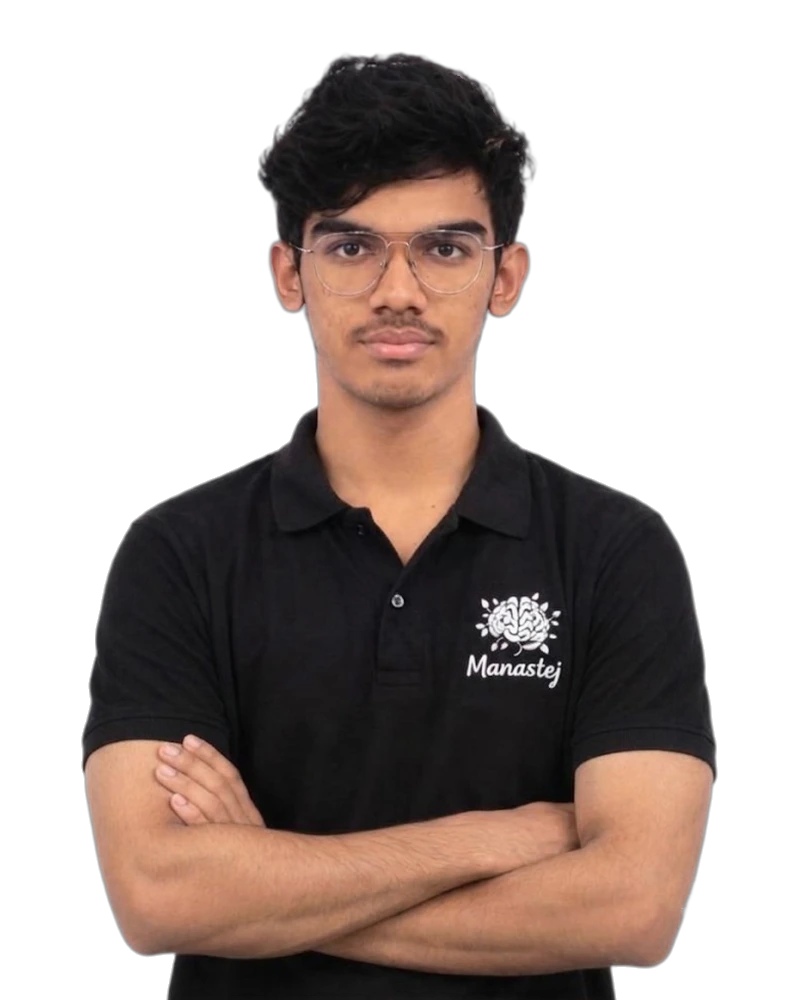
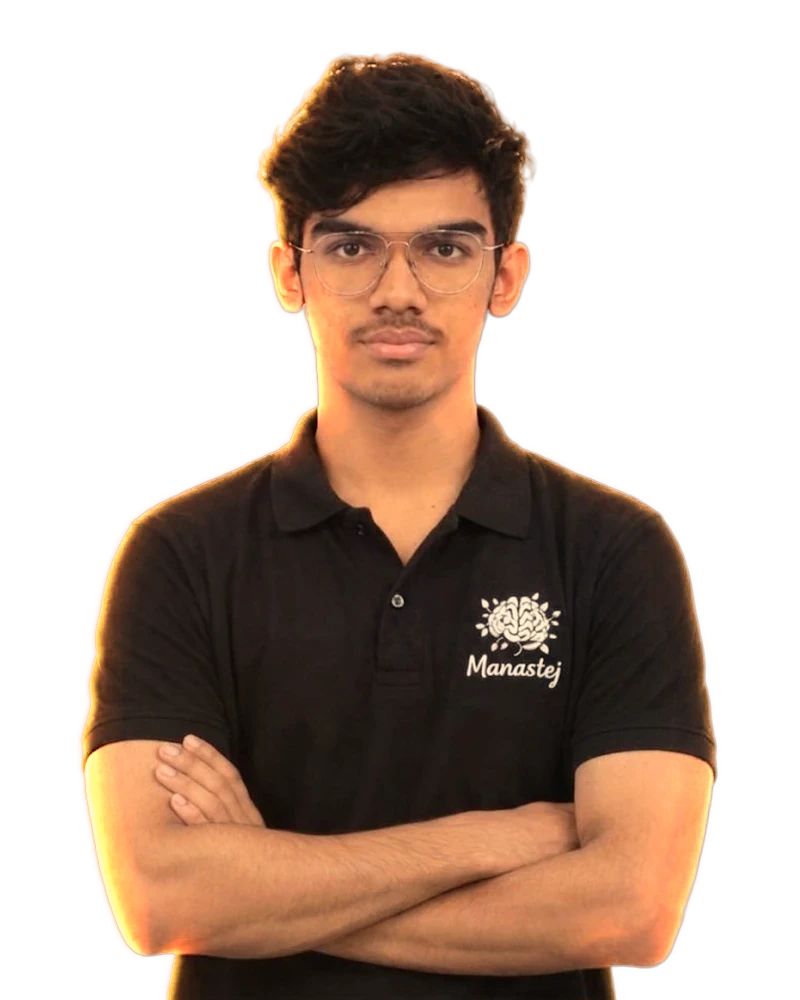
style(team): warm golden rim light on Daliya, Haresh and Ashwath to match Yash

Changed region(s): [[0.0938, 0.031, 0.9062, 1.0], [0.5938, 0.589, 0.6875, 0.682], [0.1875, 0.744, 0.2188, 0.775]]

diff --git a/scripts/team-rimlight.py b/scripts/team-rimlight.py
@@ -1,0 +1,74 @@
+import numpy as np, cv2, sys, json
+from PIL import Image
+P=dict(
+  color=(255,104,22),      # amber, sampled from yash rim (~218,148,58 peak / 200,115,40)
+  core_color=(255,184,48), # hot yellow-white core right at the edge (yash ~252,229,100)
+  core_strength=0.9, core_width=7.0,  # plateau-ish core, px
+  inner_strength=1.0, gain=4.0,     # peak screen strength at edge on key side
+  inner_decay=13.0,         # px e-fold inward
+  fill_ratio=0.35,         # back/right side strength relative to key (yash right/left ~0.35)
+  top_weight=0.45,         # how much upward-facing edges (hair top) get
+  outer_glow=0.18,         # max alpha of halo outside matte (key side)
+  outer_sigma=2.5,
+  grade=(1.06,0.98,0.85), # warm grade multipliers R,G,B on subject
+  wash=0.06,               # soft warm key wash, strongest on viewer-left
+  face_protect=0.55,       # reduce rim inside detected face boxes
+)
+def process(src,dst,p=P):
+    im=np.array(Image.open(src).convert('RGBA')).astype(np.float32)/255
+    rgb,A=im[...,:3],im[...,3]
+    H,W=A.shape
+    m=(A>0.5).astype(np.uint8)
+    d=cv2.distanceTransform(m,cv2.DIST_L2,5)
+    # outward normal from blurred alpha
+    Ab=cv2.GaussianBlur(A,(0,0),10)
+    gx=cv2.Sobel(Ab,cv2.CV_32F,1,0,ksize=5); gy=cv2.Sobel(Ab,cv2.CV_32F,0,1,ksize=5)
+    nrm=np.sqrt(gx**2+gy**2)+1e-6
+    nx,ny=-gx/nrm,-gy/nrm      # outward normal
+    key=np.clip(-nx,0,1)**0.7  # facing viewer-left
+    fill=np.clip(nx,0,1)*p['fill_ratio']
+    top=np.clip(-ny,0,1)*p['top_weight']
+    dirw=np.maximum(np.maximum(key,fill),top)
+    dirw=np.maximum(dirw,0.15)
+    dirw=cv2.GaussianBlur(dirw,(0,0),3)
+    # face protection
+    g=(np.clip(rgb*A[...,None]+ (1-A[...,None])*np.array([10,33,30])/255,0,1)*255).astype(np.uint8)
+    gray=cv2.cvtColor(g,cv2.COLOR_RGB2GRAY)
+    # protect face/neck skin in upper body: skin-ish (bright, warm) pixels above y=0.45H
+    hsv=cv2.cvtColor((np.clip(rgb,0,1)*255).astype(np.uint8),cv2.COLOR_RGB2HSV).astype(np.float32)
+    skin=((hsv[...,0]<25)&(hsv[...,1]>40)&(hsv[...,2]>70)).astype(np.float32)
+    skin[int(H*0.45):]=0
+    skin=cv2.GaussianBlur(skin,(0,0),8)
+    fp=1-p['face_protect']*np.clip(skin*1.5,0,1)
+    faces=[]
+    col=np.array(p['color'],np.float32)/255
+    I=p['inner_strength']*np.exp(-d/p['inner_decay'])*dirw*fp*(A>0)
+    C=p['core_strength']*np.exp(-(d/p['core_width'])**3)*dirw**1.5*fp*(A>0)
+    ccol=np.array(p['core_color'],np.float32)/255
+    # local contrast boost under the rim so folds read like Yash's lit fabric
+    blur=cv2.GaussianBlur(rgb,(0,0),4)
+    rgb=np.clip(rgb+(rgb-blur)*(1.2*np.clip(I*1.5,0,1))[...,None],0,1)
+    # multiplicative rim: lights the existing fabric/hair texture instead of painting flat colour
+    lit=rgb*(1+p['gain']*col*I[...,None])
+    lit=lit+0.10*col*I[...,None]                # tiny additive so near-black hair still catches light
+    lit=1-(1-np.clip(lit,0,1))*(1-ccol*C[...,None])   # screen hot core at the edge
+    lit=np.clip(lit,0,1)
+    # warm grade + soft key wash from viewer-left
+    lit=lit*np.array(p['grade'],np.float32)
+    X=np.linspace(1,0,W,dtype=np.float32)[None,:]
+    wash=p['wash']*X*np.ones((H,1),np.float32)
+    lit=1-(1-lit)*(1-col*wash[...,None])
+    lit=np.clip(lit,0,1)
+    # outer halo
+    outside=(1-m).astype(np.float32)
+    dout=cv2.distanceTransform(1-m,cv2.DIST_L2,5)
+    G=p['outer_glow']*np.exp(-(dout/p['outer_sigma'])**2*0.5)*dirw*outside*fp
+    G=np.clip(G,0,1)
+    A2=A+(1-A)*G
+    rgb2=(lit*A[...,None]+col*(G*(1-A))[...,None])/np.maximum(A2,1e-6)[...,None]
+    out=np.dstack([np.clip(rgb2,0,1),A2])
+    Image.fromarray((out*255+0.5).astype(np.uint8),'RGBA').save(dst,'WEBP',quality=90,method=6)
+    return len(faces)
+if __name__=='__main__':
+    for n in sys.argv[1:]:
+        print(n,'faces',process(f'/workspace/manastej-team-tweak/originals/{n}.webp',f'/workspace/manastej-team-tweak/{n}.webp'))
